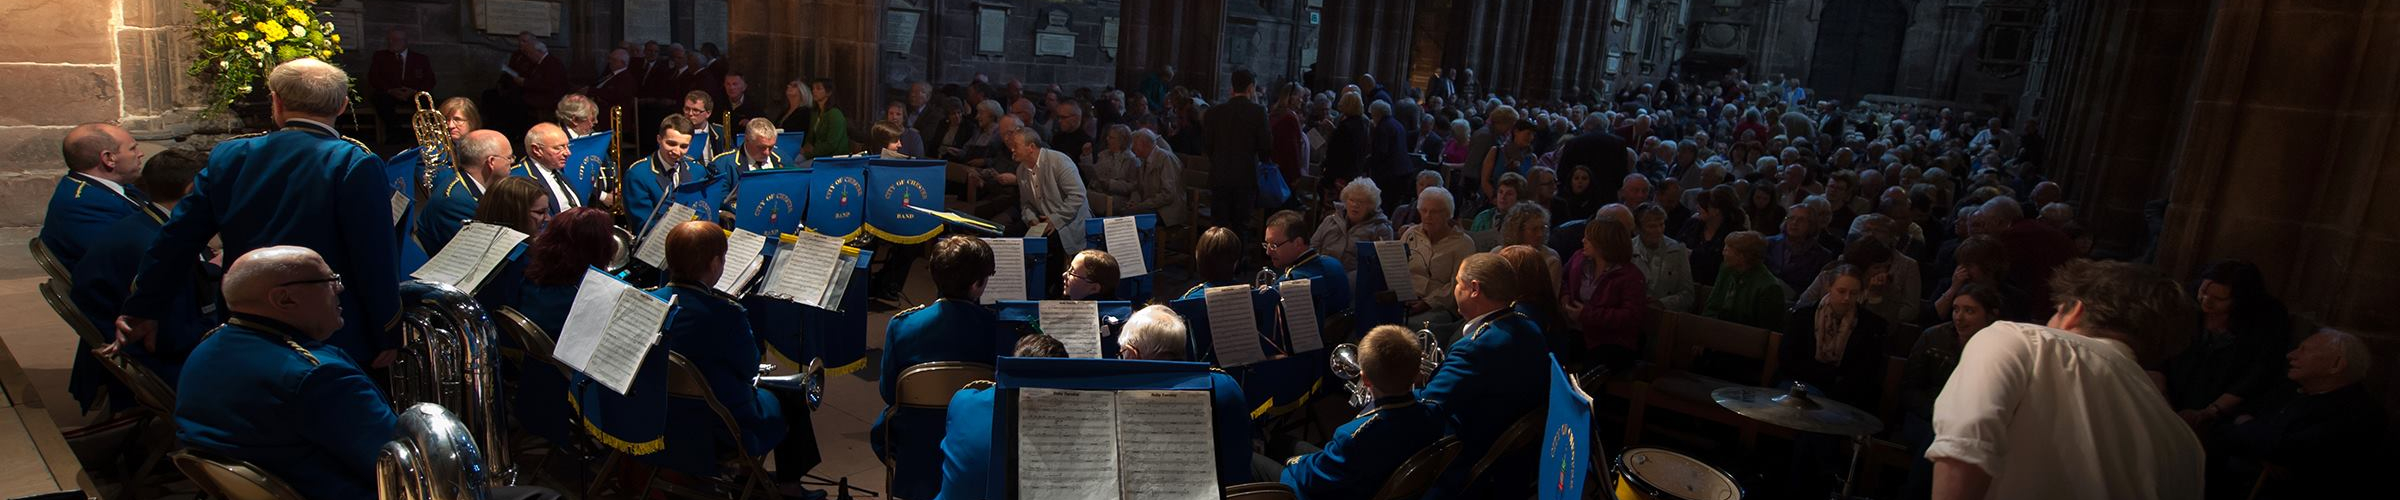
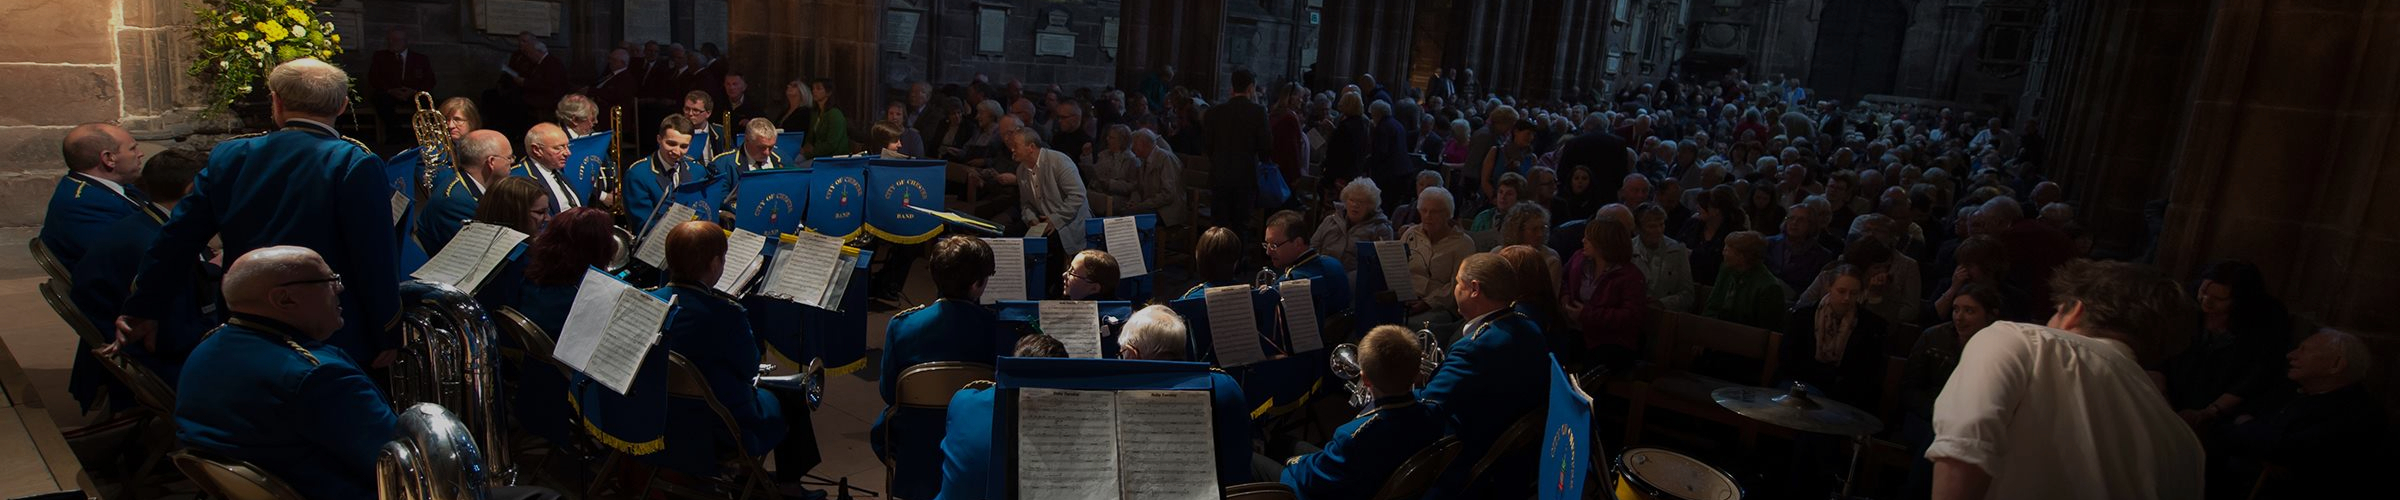
Bands complete for now

diff --git a/main_band.html b/main_band.html
@@ -1,0 +1,108 @@
+<!DOCTYPE html>
+<html lang="en">
+<head>
+  <meta http-equiv="Content-Type" content="text/html; charset=UTF-8"/>
+  <meta name="viewport" content="width=device-width, initial-scale=1, maximum-scale=1.0"/>
+  <title>Chester Brass Band</title>
+
+  <!-- CSS  -->
+  <link href="https://fonts.googleapis.com/icon?family=Material+Icons" rel="stylesheet">
+  <link href="https://fonts.googleapis.com/css?family=Cabin:700|Montserrat|Open+Sans" rel="stylesheet">
+  <link href="css/materialize.css" type="text/css" rel="stylesheet" media="screen,projection"/>
+  <link href="css/style.css" type="text/css" rel="stylesheet" media="screen,projection"/>
+</head>
+<body>
+  <div class="my-parallax" id="banner"></div>
+  <ul id="bands-dropdown" class="dropdown-content light-blue-text text-darken-2">
+    <li><a href="main_band.html">MAIN BAND</a></li>
+    <li class="divider"></li>
+    <li><a href="#">TRAINING BAND</a></li>
+    <li class="divider"></li>
+    <li><a href="#">JUNIOR BAND</a></li>
+  </ul>
+  <ul id="bands-dropdown-small" class="dropdown-content">
+    <li><a href="main_band.html">MAIN BAND</a></li>
+    <li><a href="#">TRAINING BAND</a></li>
+    <li><a href="#">JUNIOR BAND</a></li>
+  </ul>
+  <nav id="nav-container" class="transparent z-depth-0" role="navigation">
+    <div id="logo-container">
+      <a href="#" data-activates="nav-mobile" id="hamburger" class="button-collapse my-hide-on-med-and-up valign-wrapper"><i class="material-icons hamburger-icon">menu</i></a>
+      <a class="my-brand-logo" href="index.html"><img id="logo" src="img/clock_web.png" width=100% height=100%></a>
+      <div id="title" class="valign-wrapper"><a href="index.html"><h3>CHESTER BRASS BAND</h3></a></div>
+    </div>
+    <div id="nav-background" class="nav-background z-depth-1 my-hide-on-med-and-down scale-transition scale-out">
+      <div class="clock-icon z-depth-1"><a href="index.html"><img id="logo" src="img/clock_face.png" width=100% height=100%></a></div>
+    </div>
+    <ul class="right my-hide-on-small-only nav-items nav-items-fixed">
+      <li><a class="dropdown-button nav-item" data-activates="bands-dropdown" href="#"><div id="bands-div">BANDS<i class="material-icons right">arrow_drop_down</i></div></a></li>
+      <li><a href="#" class="nav-item">VACANCIES</a></li>
+      <li><a href="#" class="nav-item">CONTACT US</a></li>
+      <li><a href="#" class="nav-item">WHAT'S ON</a></li>
+      <li><a href="#" class="nav-item">GALLERY</a></li>
+    </ul>
+    <ul id="nav-mobile" class="side-nav">
+      <li><a href="#">HOME</a></li>
+      <li><a class="dropdown-button" data-activates="bands-dropdown-small" href="#">BANDS<i class="material-icons right">arrow_drop_down</i></a></li>
+      <li><a href="#">VACANCIES</a></li>
+      <li><a href="#">CONTACT US</a></li>
+      <li><a href="#">WHAT'S ON</a></li>
+      <li><a href="#">GALLERY</a></li>
+    </ul>
+  </nav>
+
+  <div id="contents">
+    <div class="container">
+      <div class="section">
+        <h4 class="heading">Main band</h4>
+        <div>
+          Lorem ipsum dolor sit amet, consectetur adipiscing elit. Quisque leo sapien, facilisis aliquam finibus eget, viverra sed metus. Aenean placerat ut metus eu euismod. Interdum et malesuada fames ac ante ipsum primis in faucibus. In faucibus viverra ipsum, a luctus nunc semper vitae. Nam posuere ac erat eget rhoncus. Vestibulum ante ipsum primis in faucibus orci luctus et ultrices posuere cubilia Curae; Aliquam pharetra pellentesque vestibulum. Integer sit amet justo eleifend, posuere nisl in, hendrerit risus. Aenean gravida, purus ac finibus accumsan, ante velit porttitor massa, eu tincidunt risus nibh sit amet felis. Donec libero lectus, venenatis sed semper nec, aliquet eu diam. Nunc scelerisque convallis odio, quis pharetra odio semper quis. Vivamus in finibus eros, non cursus risus. Nam sit amet malesuada eros, nec mollis libero.Lorem ipsum dolor sit amet, consectetur adipiscing elit. Quisque leo sapien, facilisis aliquam finibus eget, viverra sed metus. Aenean placerat ut metus eu euismod. Interdum et malesuada fames ac ante ipsum primis in faucibus. In faucibus viverra ipsum, a luctus nunc semper vitae. Nam posuere ac erat eget rhoncus. Vestibulum ante ipsum primis in faucibus orci luctus et ultrices posuere cubilia Curae; Aliquam pharetra pellentesque vestibulum. Integer sit amet justo eleifend, posuere nisl in, hendrerit risus. Aenean gravida, purus ac finibus accumsan, ante velit porttitor massa, eu tincidunt risus nibh sit amet felis. Donec libero lectus, venenatis sed semper nec, aliquet eu diam. Nunc scelerisque convallis odio, quis pharetra odio semper quis. Vivamus in finibus eros, non cursus risus. Nam sit amet malesuada eros, nec mollis libero.
+        </div>
+      </div>
+      <div class="section">
+        <h4 class="heading">Meet the band</h4>
+        <div>
+          Lorem ipsum dolor sit amet, consectetur adipiscing elit. Quisque leo sapien, facilisis aliquam finibus eget, viverra sed metus. Aenean placerat ut metus eu euismod. Interdum et malesuada fames ac ante ipsum primis in faucibus. In faucibus viverra ipsum, a luctus nunc semper vitae. Nam posuere ac erat eget rhoncus. Vestibulum ante ipsum primis in faucibus orci luctus et ultrices posuere cubilia Curae; Aliquam pharetra pellentesque vestibulum. Integer sit amet justo eleifend, posuere nisl in, hendrerit risus. Aenean gravida, purus ac finibus accumsan, ante velit porttitor massa, eu tincidunt risus nibh sit amet felis. Donec libero lectus, venenatis sed semper nec, aliquet eu diam. Nunc scelerisque convallis odio, quis pharetra odio semper quis. Vivamus in finibus eros, non cursus risus. Nam sit amet malesuada eros, nec mollis libero.Lorem ipsum dolor sit amet, consectetur adipiscing elit. Quisque leo sapien, facilisis aliquam finibus eget, viverra sed metus. Aenean placerat ut metus eu euismod. Interdum et malesuada fames ac ante ipsum primis in faucibus. In faucibus viverra ipsum, a luctus nunc semper vitae. Nam posuere ac erat eget rhoncus. Vestibulum ante ipsum primis in faucibus orci luctus et ultrices posuere cubilia Curae; Aliquam pharetra pellentesque vestibulum. Integer sit amet justo eleifend, posuere nisl in, hendrerit risus. Aenean gravida, purus ac finibus accumsan, ante velit porttitor massa, eu tincidunt risus nibh sit amet felis. Donec libero lectus, venenatis sed semper nec, aliquet eu diam. Nunc scelerisque convallis odio, quis pharetra odio semper quis. Vivamus in finibus eros, non cursus risus. Nam sit amet malesuada eros, nec mollis libero.
+          Lorem ipsum dolor sit amet, consectetur adipiscing elit. Quisque leo sapien, facilisis aliquam finibus eget, viverra sed metus. Aenean placerat ut metus eu euismod. Interdum et malesuada fames ac ante ipsum primis in faucibus. In faucibus viverra ipsum, a luctus nunc semper vitae. Nam posuere ac erat eget rhoncus. Vestibulum ante ipsum primis in faucibus orci luctus et ultrices posuere cubilia Curae; Aliquam pharetra pellentesque vestibulum. Integer sit amet justo eleifend, posuere nisl in, hendrerit risus. Aenean gravida, purus ac finibus accumsan, ante velit porttitor massa, eu tincidunt risus nibh sit amet felis. Donec libero lectus, venenatis sed semper nec, aliquet eu diam. Nunc scelerisque convallis odio, quis pharetra odio semper quis. Vivamus in finibus eros, non cursus risus. Nam sit amet malesuada eros, nec mollis libero.
+          Lorem ipsum dolor sit amet, consectetur adipiscing elit. Quisque leo sapien, facilisis aliquam finibus eget, viverra sed metus. Aenean placerat ut metus eu euismod. Interdum et malesuada fames ac ante ipsum primis in faucibus. In faucibus viverra ipsum, a luctus nunc semper vitae. Nam posuere ac erat eget rhoncus. Vestibulum ante ipsum primis in faucibus orci luctus et ultrices posuere cubilia Curae; Aliquam pharetra pellentesque vestibulum. Integer sit amet justo eleifend, posuere nisl in, hendrerit risus. Aenean gravida, purus ac finibus accumsan, ante velit porttitor massa, eu tincidunt risus nibh sit amet felis. Donec libero lectus, venenatis sed semper nec, aliquet eu diam. Nunc scelerisque convallis odio, quis pharetra odio semper quis. Vivamus in finibus eros, non cursus risus. Nam sit amet malesuada eros, nec mollis libero.
+          Lorem ipsum dolor sit amet, consectetur adipiscing elit. Quisque leo sapien, facilisis aliquam finibus eget, viverra sed metus. Aenean placerat ut metus eu euismod. Interdum et malesuada fames ac ante ipsum primis in faucibus. In faucibus viverra ipsum, a luctus nunc semper vitae. Nam posuere ac erat eget rhoncus. Vestibulum ante ipsum primis in faucibus orci luctus et ultrices posuere cubilia Curae; Aliquam pharetra pellentesque vestibulum. Integer sit amet justo eleifend, posuere nisl in, hendrerit risus. Aenean gravida, purus ac finibus accumsan, ante velit porttitor massa, eu tincidunt risus nibh sit amet felis. Donec libero lectus, venenatis sed semper nec, aliquet eu diam. Nunc scelerisque convallis odio, quis pharetra odio semper quis. Vivamus in finibus eros, non cursus risus. Nam sit amet malesuada eros, nec mollis libero.
+          Lorem ipsum dolor sit amet, consectetur adipiscing elit. Quisque leo sapien, facilisis aliquam finibus eget, viverra sed metus. Aenean placerat ut metus eu euismod. Interdum et malesuada fames ac ante ipsum primis in faucibus. In faucibus viverra ipsum, a luctus nunc semper vitae. Nam posuere ac erat eget rhoncus. Vestibulum ante ipsum primis in faucibus orci luctus et ultrices posuere cubilia Curae; Aliquam pharetra pellentesque vestibulum. Integer sit amet justo eleifend, posuere nisl in, hendrerit risus. Aenean gravida, purus ac finibus accumsan, ante velit porttitor massa, eu tincidunt risus nibh sit amet felis. Donec libero lectus, venenatis sed semper nec, aliquet eu diam. Nunc scelerisque convallis odio, quis pharetra odio semper quis. Vivamus in finibus eros, non cursus risus. Nam sit amet malesuada eros, nec mollis libero.
+          Lorem ipsum dolor sit amet, consectetur adipiscing elit. Quisque leo sapien, facilisis aliquam finibus eget, viverra sed metus. Aenean placerat ut metus eu euismod. Interdum et malesuada fames ac ante ipsum primis in faucibus. In faucibus viverra ipsum, a luctus nunc semper vitae. Nam posuere ac erat eget rhoncus. Vestibulum ante ipsum primis in faucibus orci luctus et ultrices posuere cubilia Curae; Aliquam pharetra pellentesque vestibulum. Integer sit amet justo eleifend, posuere nisl in, hendrerit risus. Aenean gravida, purus ac finibus accumsan, ante velit porttitor massa, eu tincidunt risus nibh sit amet felis. Donec libero lectus, venenatis sed semper nec, aliquet eu diam. Nunc scelerisque convallis odio, quis pharetra odio semper quis. Vivamus in finibus eros, non cursus risus. Nam sit amet malesuada eros, nec mollis libero.
+        </div>
+      </div>
+      </div>
+    </div>
+  </div>
+
+  <footer class="page-footer blue darken-3">
+    <div class="container">
+      <div id="footer-row" class="row no-margin">
+        <div class="col m4 s12 hide-on-small-only">
+          <p class="grey-text text-lighten-4">© 2017 <a class="amber-text text-lighten-1" href="#">Ryan Jones</a> and Chester Band, All Rights Reserved, Registered charity 508473.</p>
+        </div>
+        <div class="col m4 s12">
+          <p class="grey-text text-lighten-4 social-container">
+            <a href="#" class="social-icon grey-text text-lighten-4"><i class="small fa fa-facebook" aria-hidden="true"></i></a>
+            <a href="#" class="social-icon grey-text text-lighten-4"><i class="small fa fa-twitter" aria-hidden="true"></i></a>
+          </p>
+        </div>
+        <div class="col m4 s12 text-button">
+          <a href="#" class="nav-item" style="display: inline-block"><p class="grey-text text-lighten-4">GET IN TOUCH</p></a>
+        </div>
+        <div class="col m4 s12 hide-on-med-and-up">
+          <div class="divider hide-on-med-and-up" style="margin: 1px;"></div>
+          <p class="grey-text text-lighten-4">© 2017 <a class="orange-text text-lighten-3" href="#">Ryan Jones</a> and Chester Band, All Rights Reserved, Registered charity 508473.</p>
+        </div>
+      </div>
+    </div>
+  </footer>
+
+
+  <!--  Scripts-->
+  <script src="https://code.jquery.com/jquery-2.1.1.min.js"></script>
+  <script src="js/materialize.js"></script>
+  <script src="js/init.js"></script>
+  <script src="https://use.fontawesome.com/5658300424.js"></script>
+
+  </body>
+</html>

diff --git a/index.html b/index.html
@@ -11,29 +11,28 @@
   <link href="css/materialize.css" type="text/css" rel="stylesheet" media="screen,projection"/>
   <link href="css/style.css" type="text/css" rel="stylesheet" media="screen,projection"/>
 </head>
-<body>
+<body class="dev">
   <div class="my-parallax" id="banner"></div>
-  <div class="parallax-darken"></div>
   <ul id="bands-dropdown" class="dropdown-content light-blue-text text-darken-2">
-    <li><a href="#">MAIN BAND</a></li>
+    <li><a href="main_band.html">MAIN BAND</a></li>
     <li class="divider"></li>
     <li><a href="#">TRAINING BAND</a></li>
     <li class="divider"></li>
     <li><a href="#">JUNIOR BAND</a></li>
   </ul>
   <ul id="bands-dropdown-small" class="dropdown-content">
-    <li><a href="#">MAIN BAND</a></li>
+    <li><a href="main_band.html">MAIN BAND</a></li>
     <li><a href="#">TRAINING BAND</a></li>
     <li><a href="#">JUNIOR BAND</a></li>
   </ul>
   <nav id="nav-container" class="transparent z-depth-0" role="navigation">
     <div id="logo-container">
       <a href="#" data-activates="nav-mobile" id="hamburger" class="button-collapse my-hide-on-med-and-up valign-wrapper"><i class="material-icons hamburger-icon">menu</i></a>
-      <a class="my-brand-logo" href="#"><img id="logo" src="img/clock_web.png" width=100% height=100%></a>
-      <div id="title" class="valign-wrapper"><h3>Chester Brass Band</h3></div>
+      <a class="my-brand-logo" href="index.html"><img id="logo" src="img/clock_web.png" width=100% height=100%></a>
+      <div id="title" class="valign-wrapper"><a href="index.html"><h3>CHESTER BRASS BAND</h3></a></div>
     </div>
     <div id="nav-background" class="nav-background z-depth-1 my-hide-on-med-and-down scale-transition scale-out">
-      <div class="clock-icon z-depth-1"><a href="#"><img id="logo" src="img/clock_face.png" width=100% height=100%></a></div>
+      <div class="clock-icon z-depth-1"><a href="index.html"><img id="logo" src="img/clock_face.png" width=100% height=100%></a></div>
     </div>
     <ul class="right my-hide-on-small-only nav-items nav-items-fixed">
       <li><a class="dropdown-button nav-item" data-activates="bands-dropdown" href="#"><div id="bands-div">BANDS<i class="material-icons right">arrow_drop_down</i></div></a></li>

diff --git a/css/style.css b/css/style.css
@@ -30,6 +30,10 @@ body {
 #logo-container {
   position: relative;
   text-align: center;
+  height: 100%;
+}
+#nav-container {
+  height: 100px;
 }
 nav {
   position: absolute;
@@ -58,7 +62,7 @@ nav .my-brand-logo {
   font-family: 'Cabin', sans-serif;
   letter-spacing: 1px;
 }
-#title > h3 {
+#title h3 {
   margin: 10px;
 }
 .nav-items {
@@ -159,19 +163,12 @@ nav ul a:hover {
   background-image: url("../img/cover.jpg");
 
   /* Full height */
-  height: 300px;
+  height: 100px;
 
   background-position: top;
   background-repeat: no-repeat;
-  background-size: cover;
-  background-attachment: inherit;
-}
-
-.parallax-darken {
-  position: absolute;
-  width: 100%;
-  top: 0;
-  background-color: rgba(0, 0, 0, 0.2);
+  background-size: auto;
+  background-attachment: fixed;
 }
 
 #contents {
@@ -294,11 +291,6 @@ nav ul a:hover {
 }
 
 @media only screen and (min-width: 1001px) {
-  .my-parallax {
-      /* Create the parallax scrolling effect */
-      background-attachment: fixed;
-      background-size: contain;
-  }
   .nav-remove-padding {
     padding-top: 0;
     position: fixed;
@@ -306,6 +298,10 @@ nav ul a:hover {
 }
 
 @media only screen and (max-width: 1000px) {
+  .my-parallax {
+      /* Create the parallax scrolling effect */
+      background-size: auto;
+  }
   .my-hide-on-med-and-down {
     display: none !important;
   }
@@ -378,8 +374,26 @@ nav ul a:hover {
   }
 }
 
-@media only screen and (max-width: 322px) {
-  #title > h3 {
+@media only screen and (max-width: 376px) {
+  h3 {
+    font-size: 1.40rem;
+  }
+}
+
+@media only screen and (max-width: 357px) {
+  h3 {
+    font-size: 1.35rem;
+  }
+}
+
+@media only screen and (max-width: 349px) {
+  h3 {
+    font-size: 1.25rem;
+  }
+}
+
+@media only screen and (max-width: 331px) {
+  #title h3 {
     margin: 0;
   }
 }

diff --git a/js/init.js b/js/init.js
@@ -55,6 +55,7 @@ function resizeBanner() {
         imageIdeal.width = image.width * (300 / image.height);
 
         var targetHeight = ($('#banner').width() * image.height / image.width) - 1;
+        $('#banner').css('background-size', 'contain');
         $('#banner').css('height', targetHeight);
         $('.parallax-darken').css('height', targetHeight);
 
@@ -74,12 +75,14 @@ function afterBannerResize() {
 }
 
 function setupPushpin() {
-  $('#most-recent-container').addClass('most-recent-container-reset');
-  $('#most-recent-container').pushpin({
-    top: $('#most-recent-container').offset().top,
-    offset: 75
-  });
-  $('#most-recent-container').removeClass('most-recent-container-reset');
+  if ($('body').hasClass('dev') || document.location.pathname.length == 1) {
+    $('#most-recent-container').addClass('most-recent-container-reset');
+    $('#most-recent-container').pushpin({
+      top: $('#most-recent-container').offset().top,
+      offset: 75
+    });
+    $('#most-recent-container').removeClass('most-recent-container-reset');
+  }
 }
 
 function valignFooter() {
